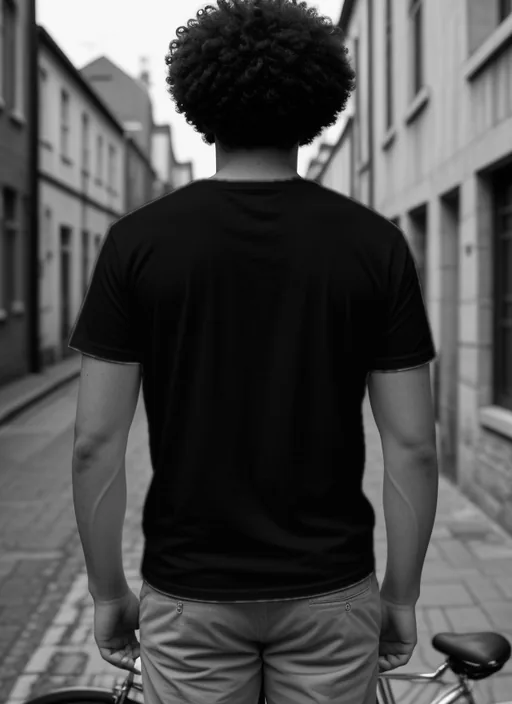
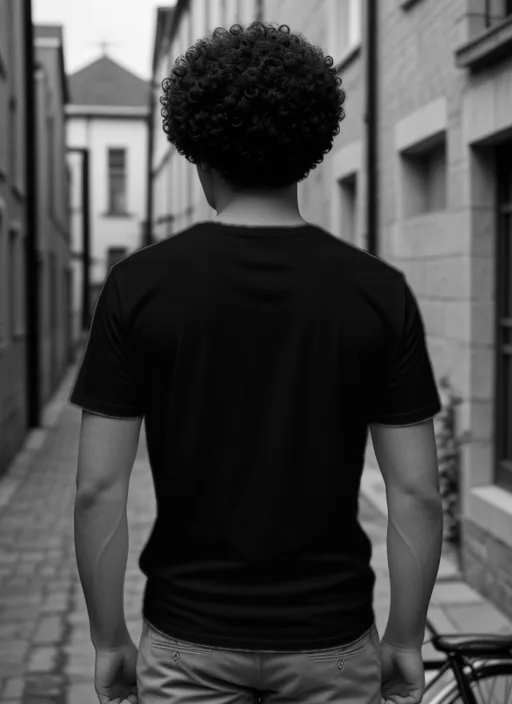
Models: whole heads — tall hair regenerated lower in the picture, a head at the top edge refused, air left above it when framing
Claude-Session: https://claude.ai/code/session_0137kCTX5DYSJbTcNKd7SgjX

diff --git a/scripts/models/generate.py b/scripts/models/generate.py
@@ -22,6 +22,14 @@ vae = AutoencoderKL.from_pretrained("stabilityai/sd-vae-ft-mse", torch_dtype=tor
 controlnet = ControlNetModel.from_pretrained("lllyasviel/sd-controlnet-openpose", torch_dtype=torch.float32)
 pipe = StableDiffusionControlNetPipeline.from_pretrained("SG161222/Realistic_Vision_V5.1_noVAE", vae=vae, controlnet=controlnet, torch_dtype=torch.float32, safety_checker=None)
 POSES = [Image.open(os.path.join(os.path.dirname(os.path.abspath(__file__)), "poses", f)).convert("RGB") for f in sorted(os.listdir(os.path.join(os.path.dirname(os.path.abspath(__file__)), "poses")))]
+
+def pose_for(j):
+    """The job's pose skeleton; "lower": moved down that many pixels, for tall hair (a bun or an afro came out cut off at the top)."""
+    pose = POSES[j.get("pose", 0) % len(POSES)]
+    if not j.get("lower"): return pose
+    moved = Image.new("RGB", pose.size)
+    moved.paste(pose, (0, j["lower"]))
+    return moved
 pipe.load_lora_weights("latent-consistency/lcm-lora-sdv1-5"); pipe.fuse_lora()
 pipe.scheduler = LCMScheduler.from_config(pipe.scheduler.config)
 jobs = json.load(open(sys.argv[1])); out = sys.argv[2]; os.makedirs(out, exist_ok=True)
@@ -42,7 +50,7 @@ for j in jobs:
     if os.path.exists(f): continue
     t = time.time()
     for attempt in range(8):
-        img = pipe(j["prompt"], image=POSES[j.get("pose", 0) % len(POSES)], controlnet_conditioning_scale=0.9, negative_prompt=j.get("neg", NEG) + (", black shirt" if j.get("color") == "white" else ", white shirt"), num_inference_steps=j.get("steps", 6), guidance_scale=j.get("guidance", 2.0), width=640, height=880, generator=torch.Generator().manual_seed(j["seed"] + attempt * 101)).images[0]
+        img = pipe(j["prompt"], image=pose_for(j), controlnet_conditioning_scale=0.9, negative_prompt=j.get("neg", NEG) + (", black shirt" if j.get("color") == "white" else ", white shirt"), num_inference_steps=j.get("steps", 6), guidance_scale=j.get("guidance", 2.0), width=640, height=880, generator=torch.Generator().manual_seed(j["seed"] + attempt * 101)).images[0]
         why = reason(measure(img, j, person_session), j)
         print(j["id"], attempt, "ok" if not why else f"retry ({why})", round(time.time() - t, 1), flush=True)
         if not why: break

diff --git a/scripts/models/checks.py b/scripts/models/checks.py
@@ -10,11 +10,16 @@ photo that was thrown away:
 - tint: a white tee must be white, not beige (golden autumn light).
 - sleeves: the tee covers the shoulders out to the upper arms — a tank top
   shows skin there (the shop sells tees only).
+- head: the whole head is in the picture (a tall afro came out cut off at
+  the top edge; no framing brings it back).
 - trousers: light trousers merge with a white tee (its hem can't be found,
   and the black twin gets a white band). Light grey, stone and khaki are
   fine: analyze.py finds the hem as a line (and see the README).
 """
 import numpy as np
+
+# The top of the head (hair included) touching the picture's top edge (within this many pixels) is cut off: no framing brings it back.
+HEADROOM = 3
 
 def measure(img, j, session):
     """The silhouette's landmarks and the numbers the rules look at."""
@@ -55,7 +60,7 @@ def measure(img, j, session):
     tx = slice(int(cx - shoulders * 0.3), int(cx + shoulders * 0.3))
     body = person[t0:t1, tx]
     trousers = float(lum[t0:t1, tx][body].mean()) if body.any() else 0.0
-    return dict(person=person, lum=lum, span=span, neck=neck, shoulders=shoulders, cx=cx,
+    return dict(person=person, lum=lum, span=span, head=head, neck=neck, shoulders=shoulders, cx=cx,
                 tone=tone, tint=tint, sleeves=sleeves, trousers=trousers)
 
 def reason(m, j):
@@ -65,5 +70,6 @@ def reason(m, j):
     if (white and m["tone"] < j.get("min_tone", 0.6)) or (not white and m["tone"] > 0.22): return f"tee tone {m['tone']:.2f}"
     if white and m["tint"] > 0.08: return f"tee tinted {m['tint']:.2f}"
     if m["sleeves"] < 0.5: return f"no sleeves {m['sleeves']:.2f}"
+    if m["head"] < HEADROOM: return "head cut at the top"
     if white and m["trousers"] > 0.62: return f"light trousers {m['trousers']:.2f}"
     return None

diff --git a/scripts/models/jobs.py b/scripts/models/jobs.py
@@ -97,6 +97,7 @@ for k, (man, trousers, pose, setting) in enumerate(FOURTH):
     jobs.append({"id": f"m{i:02d}", "color": "white", "seed": 5100 + i * 41, "steps": 8, "pose": pose, "guidance": 1.8, "neg": NEG_FOURTH, "min_tone": 0.52,
       "prompt": f"{TEES4[k % 2]}, back view, {man}, standing upright, shoulders back, {trousers}, {setting}, {LOOKBOOK}"})
     if k == 6: jobs[-1]["seed"] += 1000  # the first seed gave a tank top (the shop sells tees only)
+    if k == 3: jobs[-1]["lower"] = 60  # the bun was cut off at the top edge: the man stands lower in the picture
 # The fifth set: the lookbook recipe, with more variety — ages, origins,
 # builds, hair, trousers, three upright stances, sixteen different places.
 FIFTH = [
@@ -123,6 +124,7 @@ for k, (man, trousers, pose, setting) in enumerate(FIFTH):
     jobs.append({"id": f"m{i:02d}", "color": "white", "seed": 4100 + i * 43, "steps": 8, "pose": pose, "guidance": 1.8, "neg": NEG_FOURTH, "min_tone": 0.52,
       "prompt": f"{TEES4[k % 2]}, back view, {man}, standing upright, shoulders back, {trousers}, {setting}, {LOOKBOOK}"})
     if k in (3, 12): jobs[-1]["seed"] += 500  # retried: loose hair over the back; a backlit, dark tee
+    if k == 9: jobs[-1]["lower"] = 60  # the afro was cut off at the top edge: the man stands lower in the picture
     if k == 5:  # golden autumn light turned every try beige: another seed, the white said twice
         jobs[-1]["seed"] += 1000
         jobs[-1]["prompt"] = jobs[-1]["prompt"].replace("plain white", "bright pure white")

diff --git a/scripts/models/analyze.py b/scripts/models/analyze.py
@@ -190,6 +190,8 @@ for j in JOBS:
     cw, ch = OUT_W / f, OUT_H / f
     left, top_ = cx - cw / 2, neck - OUT_H * COLLAR / f
     # Never above the picture: the frame comes down to its top edge, and the collar (and print) sit that much lower.
+    # Air above the head (hair included): the frame starts a little above it when the picture has room.
+    top_ = min(top_, head - ch * 0.03)
     top_ = max(0.0, min(top_, h - ch)) if ch <= h else top_
     box = print_box(sh, (neck - top_) / ch)
     arr = np.asarray(img.convert("L"))

diff --git a/scripts/models/README.md b/scripts/models/README.md
@@ -21,6 +21,7 @@ Enforced in code, so a run never wastes time on them:
 | Without "short-sleeved" some come out in tank tops (the shop sells tees) | `jobs.py` rule; `checks.py` sleeves |
 | Arms down on every photo (the lookbook stances) looks like standing at attention | `poses.py`: relaxed poses g–l, each arm doing something; `jobs.py`: the sixth set on takes only those, its arms in the prompt, no pose twice before all are used |
 | Hands behind the back came out twisted; folded arms read as reaching forward; a phone and a hand raised to the neck looked put on | `poses.py`: those poses removed (hand on the hip instead of at the neck) |
+| Tall hair (a bun, an afro) came out cut off at the top edge; no framing brings it back | `checks.py` head; `jobs.py` `lower`: the pose moved down for such a job; `analyze.py`: the frame leaves air above the head |
 | Light trousers merge with a white tee (a white band or dark patches at the black twin's hem) | `analyze.py`: over light trousers the hem is a line, found by brightness and warmth (beige and stone are warmer than the tee); `checks.py`: white trousers still out (a tee folded over a white waistband can't be told from it) |
 | The clothing model's mask had holes and stray bits (white specks in the black tee, dark ones on the trousers); a rolled hem stayed white | `analyze.py`: one piece, holes filled, the white cloth joined to it taken in; `tests/colors.test.tsx` checks every black twin for holes |
 | A broad man framed like a slim one needs more than the picture (mirror-filled: a second head) | `analyze.py`: the shoulders take more of the width, the print box follows |
